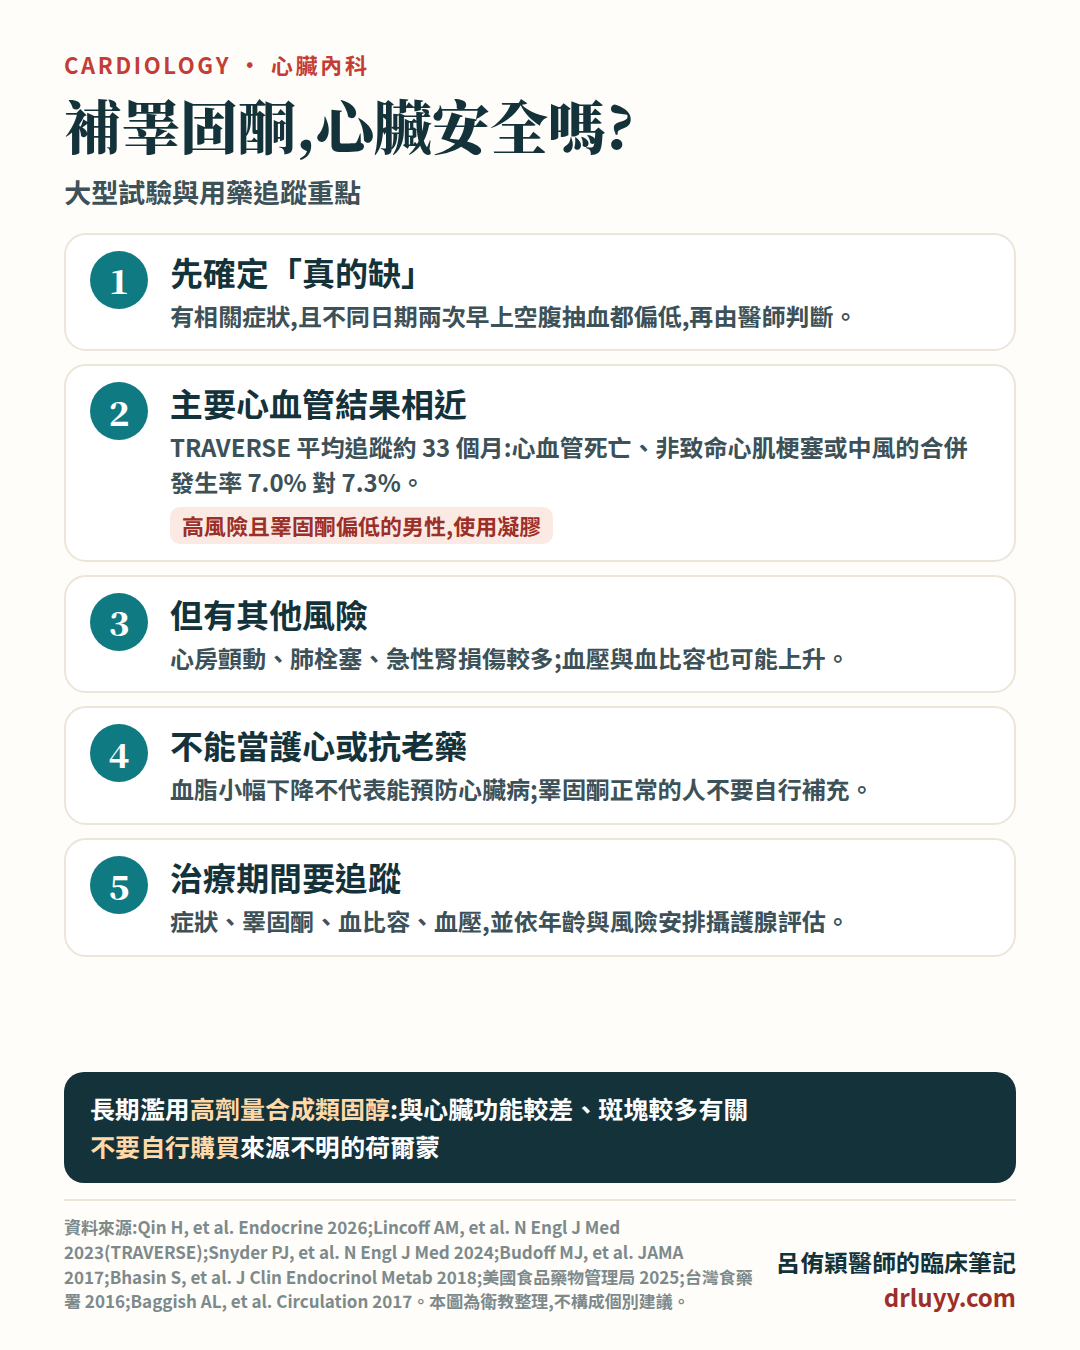
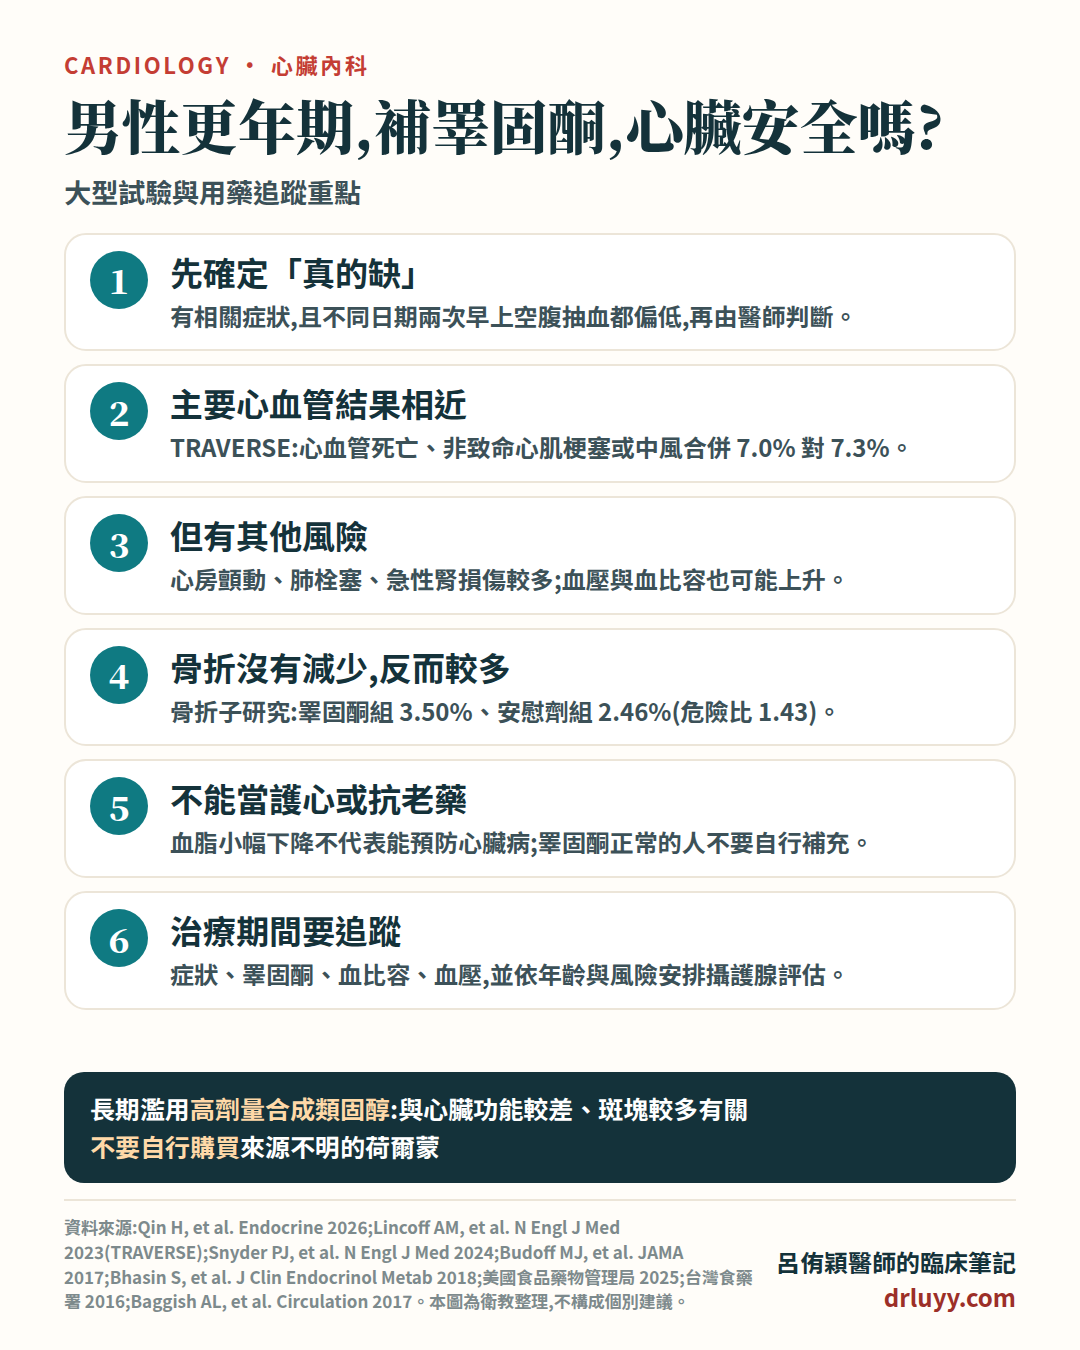
testosterone-heart: fracture interpretation, card title + fracture item

diff --git a/posts/testosterone-heart.html b/posts/testosterone-heart.html
@@ -87,7 +87,7 @@ gtag('config', 'G-BC1Z8X6BQT');
 
 ① 補睪固酮的前提是「真的缺」:有相關症狀,而且在不同日期、至少兩次早上空腹抽血都持續偏低,再由醫師綜合判斷。單純年紀大、容易累,不等於要補。
 ② 對心臟:大型試驗 TRAVERSE 在心血管風險較高、睪固酮確實偏低的男性中,使用睪固酮凝膠,心血管死亡、非致命心肌梗塞、非致命中風的合併發生率沒有比安慰劑明顯增加;但這不代表所有心血管風險都已排除。
-③ 不是零風險:同一個試驗觀察到心房顫動、急性腎損傷、肺栓塞比較多;睪固酮也可能讓血壓和紅血球上升。
+③ 不是零風險:同一個試驗觀察到心房顫動、急性腎損傷、肺栓塞比較多;骨折子研究中,睪固酮組的骨折也比較多。睪固酮也可能讓血壓和紅血球上升。
 ④ 最新統合分析看到血脂小幅下降,但也看到心律不整的訊號;血脂改善是指標,不等於少得心臟病。
 ⑤ 健身圈自行使用的高劑量合成類固醇是另一回事,長期使用和心臟功能較差、冠狀動脈斑塊較多有關。
 
@@ -122,7 +122,7 @@ gtag('config', 'G-BC1Z8X6BQT');
 ・隨機分成擦睪固酮凝膠或安慰劑凝膠;平均接受治療約 21.7 個月,平均追蹤約 33 個月。
 ・心血管死亡、非致命心肌梗塞、非致命中風的合併發生率:睪固酮組 7.0%,安慰劑組 7.3%(危險比 0.96),符合研究預先設定的「不比安慰劑差」標準。這不等於證明睪固酮能保護心臟。
 ・但睪固酮組有幾項事件比較多:心房顫動 3.5% 對 2.4%、急性腎損傷 2.3% 對 1.5%、肺栓塞(血栓跑到肺部血管)0.9% 對 0.5%。
-・同一試驗的骨折子研究,中位追蹤約 3.2 年:睪固酮組 3.50% 的人發生骨折,安慰劑組 2.46%,所以不能把補睪固酮當成預防骨折的方法。
+・同一試驗的骨折子研究(5,204 人,中位追蹤約 3.2 年):原本預期睪固酮能減少骨折,結果相反——睪固酮組 3.50% 的人發生臨床骨折,安慰劑組 2.46%,危險比 1.43(95% 信賴區間 1.04–1.97)。信賴區間沒有跨過 1,代表這個差異在統計上是有意義的;不過這是子研究,而且結果和預期相反,作者在結論只保守寫「骨折數字上較高」。目前合理的解讀是:補睪固酮沒有預防骨折的效果,而且可能增加骨折風險,還需要更多研究確認。
 
 【美國食品藥物管理局的標示變化】
 ・2025 年 2 月 28 日:把 TRAVERSE 結果寫進所有睪固酮產品仿單,移除黑框警語中「增加心血管不良事件風險」的文字;同時因為血壓監測研究證實這類產品會讓血壓上升,要求新增或補充血壓上升的警語。
